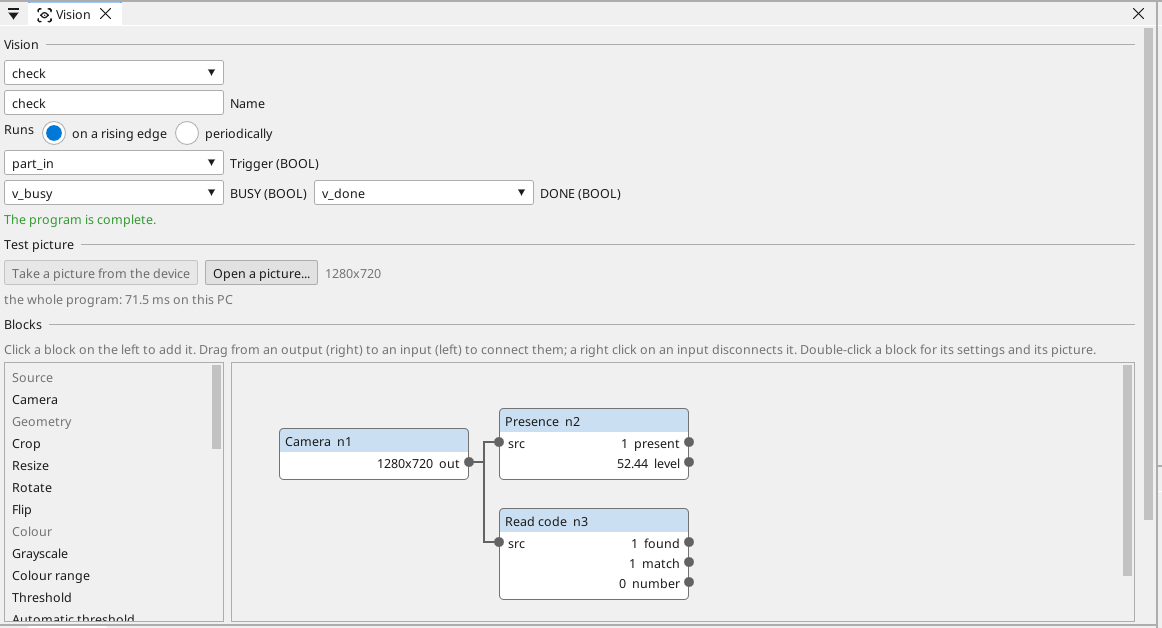
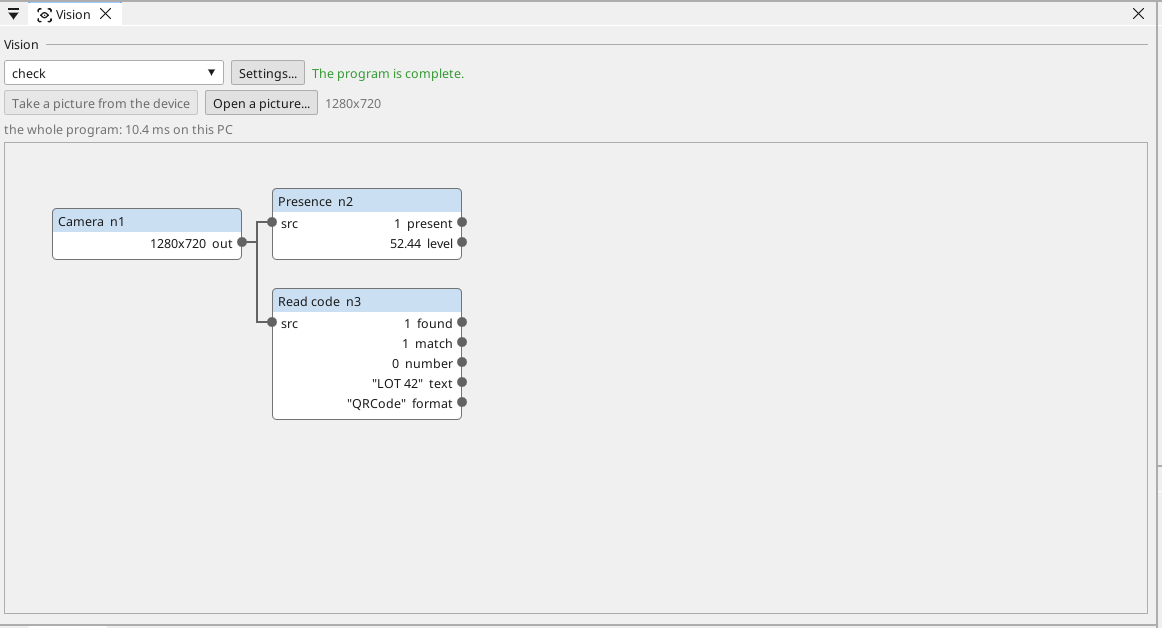
Vision: the blocks in the Toolbox, the program's settings dialog, the new pictures

diff --git a/docs/vision.md b/docs/vision.md
@@ -27,9 +27,18 @@ project's first camera.
 
 Click the program to open its page.
 
-![The Vision page: when the program runs, the test picture, the blocks and how they are connected](img/vision-page.webp){: .sb-center}
+![The Vision page: the blocks and how they are connected, the test picture's buttons above, the blocks to add in the Toolbox on the right](img/vision-page.webp){: .sb-center}
 
-- **Click a block** in the list on the left to add it.
+- **Click a block** in the Toolbox on the right to add it — the
+  groups fold and unfold like the ladder's.
+- **Settings...** opens the program's window: its name, when it runs
+  (on a rising edge of a variable, or every so many milliseconds),
+  BUSY and DONE, and the results — which output goes into which
+  variable. The page itself is the graph, with as much room as the
+  screen gives.
+
+![The program's window: when it runs, BUSY and DONE, the results into variables](img/vision-settings.webp){: .sb-center}
+
 - **Drag from an output** (the dots on the right of a block) **to an
   input** (the dots on the left) to connect them. A picture goes into a
   picture input, a number into a number input.
@@ -161,7 +170,7 @@ numbered on the picture it was found in (a match with its score).
 
 ## The whole toolbox
 
-The palette holds 77 blocks, grouped the way a person thinks about a
+The Toolbox holds 79 blocks, grouped the way a person thinks about a
 picture; every one is a row of the same table and has its window, and
 [Vision blocks](vision-blocks.md) lists them all with their settings.
 In short:

diff --git a/docs/tutorial-vision.md b/docs/tutorial-vision.md
@@ -42,7 +42,8 @@ value on the page is real.
 
 ## 3. Is the part there?
 
-1. Click **Presence** in the list on the left - it lands on the graph.
+1. Click **Presence** in the Toolbox on the right (the *Ready tools*
+   group) - it lands on the graph.
 2. Drag from the camera's `out` (the dot on its right) to the presence
    block's `src`. The program is complete: the page says so.
 3. Double-click the block. Its window shows the picture; **drag over
